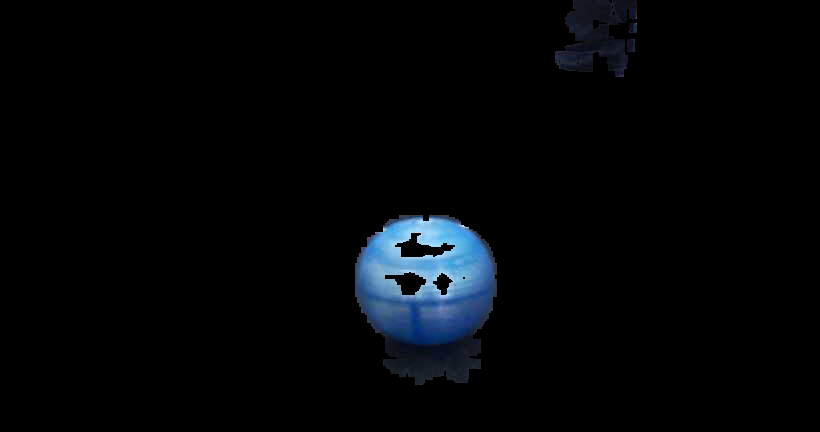
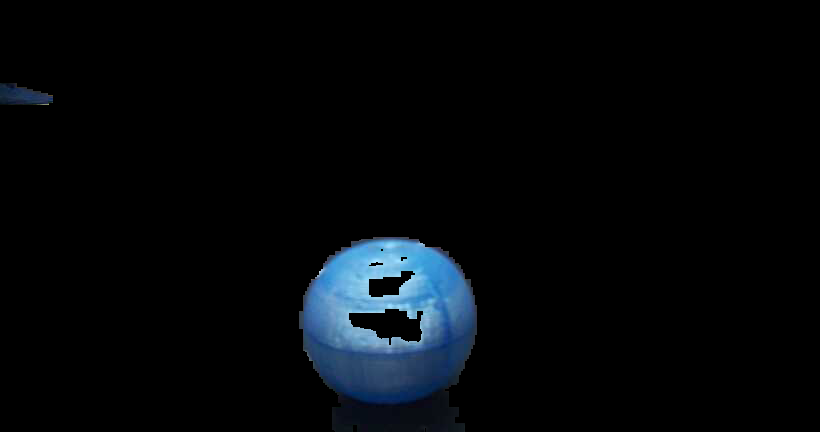
delivery works

diff --git a/mqtt_python/modules/navigate_to_drop_off.py b/mqtt_python/modules/navigate_to_drop_off.py
@@ -64,11 +64,12 @@ class NavigateToDropOff(Task):
     def __init__(self, target : PoseTarget = PoseTarget.A):
         super().__init__(name="Navigate")
 
-        self.SPEED = 0.1
-        self.TURNRATE = 0.1
+        self.SPEED = 0.3
+        self.TURNRATE = 0.5
         self.ANGLEMARGIN = 0.05
         self.DISTMARGIN = 0.01
         self.OFFSET = -0.6 #Offset 11cm
+        self.DELIVERY_OFFSET = 0.10
 
         self.states_q : list[State] = []
         self.state: State = State.VERIFY_POSITION
@@ -220,12 +221,13 @@ class NavigateToDropOff(Task):
         if not self.has_turned: #Examine if robot needs to turn towards target
             self.turn_to_target()
             self.add_state(State.NAVIGATE_TO_CORNER)
+            self.change_state()
             return		
 
         # VALIDATION STEP 2 DRIVE
         elif not self.has_droven: #Examine if robot needs to drive to target or backoff
             self.drive_to_target()
-            self.add_state(State.NAVIGATE_TO_CORNER)		
+            self.add_state(State.NAVIGATE_TO_CORNER)
             self.change_state()
             return
         
@@ -248,21 +250,15 @@ class NavigateToDropOff(Task):
         poses = {key: value for key, value in poses.items() if ARUCO_MAP[key][0] in {'A', 'B', 'C', 'D'}}
         print(poses, self.target.type.value)
         for key, value in poses.items():
-            if ARUCO_MAP[key][0] == self.target.type: #If target found
+            if ARUCO_MAP[key][0] == self.target.type.value: #If target found
                 rvec, tvec, identifier = value
                 drop_pos = drop_point(rvec, tvec, delivery=True, offset= self.DELIVERY_OFFSET, show = True, img = img)
-                
-                if self.target.dist <= self.DELIVERY_OFFSET and self.target.angle <= self.ANGLEMARGIN:
-                    self.add_state(State.DELIVER)
-                    self.change_state()
-                    LOGGER.info('DELIVERING PACKAGE')
-                    return
-                
                 self.target.set_pose(drop_pos)
                 self.add_state(State.NAVIGATE_TO_CORNER)
                 self.has_turned = False
                 self.has_droven = False
                 self.has_reached_center = True
+                self.delivery = True
                 self.change_state()
                 LOGGER.info('FOUND TARGET')
                 return

diff --git a/mqtt_python/_variables.py b/mqtt_python/_variables.py
@@ -41,7 +41,7 @@ class Task:
 	DELIVER_GOLF_BALL 	 = DeliverGolfBall()
 	RETRIEVE_LUGGAGE = RetrieveLuggage()
 	GET_LUGGAGE = NavigateToPose(target = PoseTarget.ARUCO_LD)
-	DELIVER_LUGGAGE = NavigateToDropOff()
+	DELIVER_LUGGAGE = NavigateToDropOff(target=PoseTarget.D)
 	DELIVER_BALL = NavigateToDropOff(target=PoseTarget.C)
 	
 

diff --git a/mqtt_python/modules/navigate_to_pose.py b/mqtt_python/modules/navigate_to_pose.py
@@ -72,6 +72,7 @@ class NavigateToPose(Task):
 		self.DISTMARGIN = 0.01
 		self.OFFSET_BALL = 0.16
 		self.OFFSET = 0.2 #Offset 11cm
+		self.OFFSET = 0.16 if target == PoseTarget.BLUE_BALL or target == PoseTarget.ORANGE_BALL else 0.2
   
 		self.states_q : list[State] = []
 		self.state: State = State.LOOKING_FOR_OBJECT

diff --git a/mqtt_python/modules/aruco.py b/mqtt_python/modules/aruco.py
@@ -77,7 +77,7 @@ def get_pose(img, save_path=None) -> dict:
 		# assert _marker_size
 		
 		if not identifier:
-			pass
+			continue
 		_marker_points = get_marker_points(_marker_size)
 		
 		ret, rvec, tvec = cv2.solvePnP(_marker_points, _corners, MTX, DIST)
